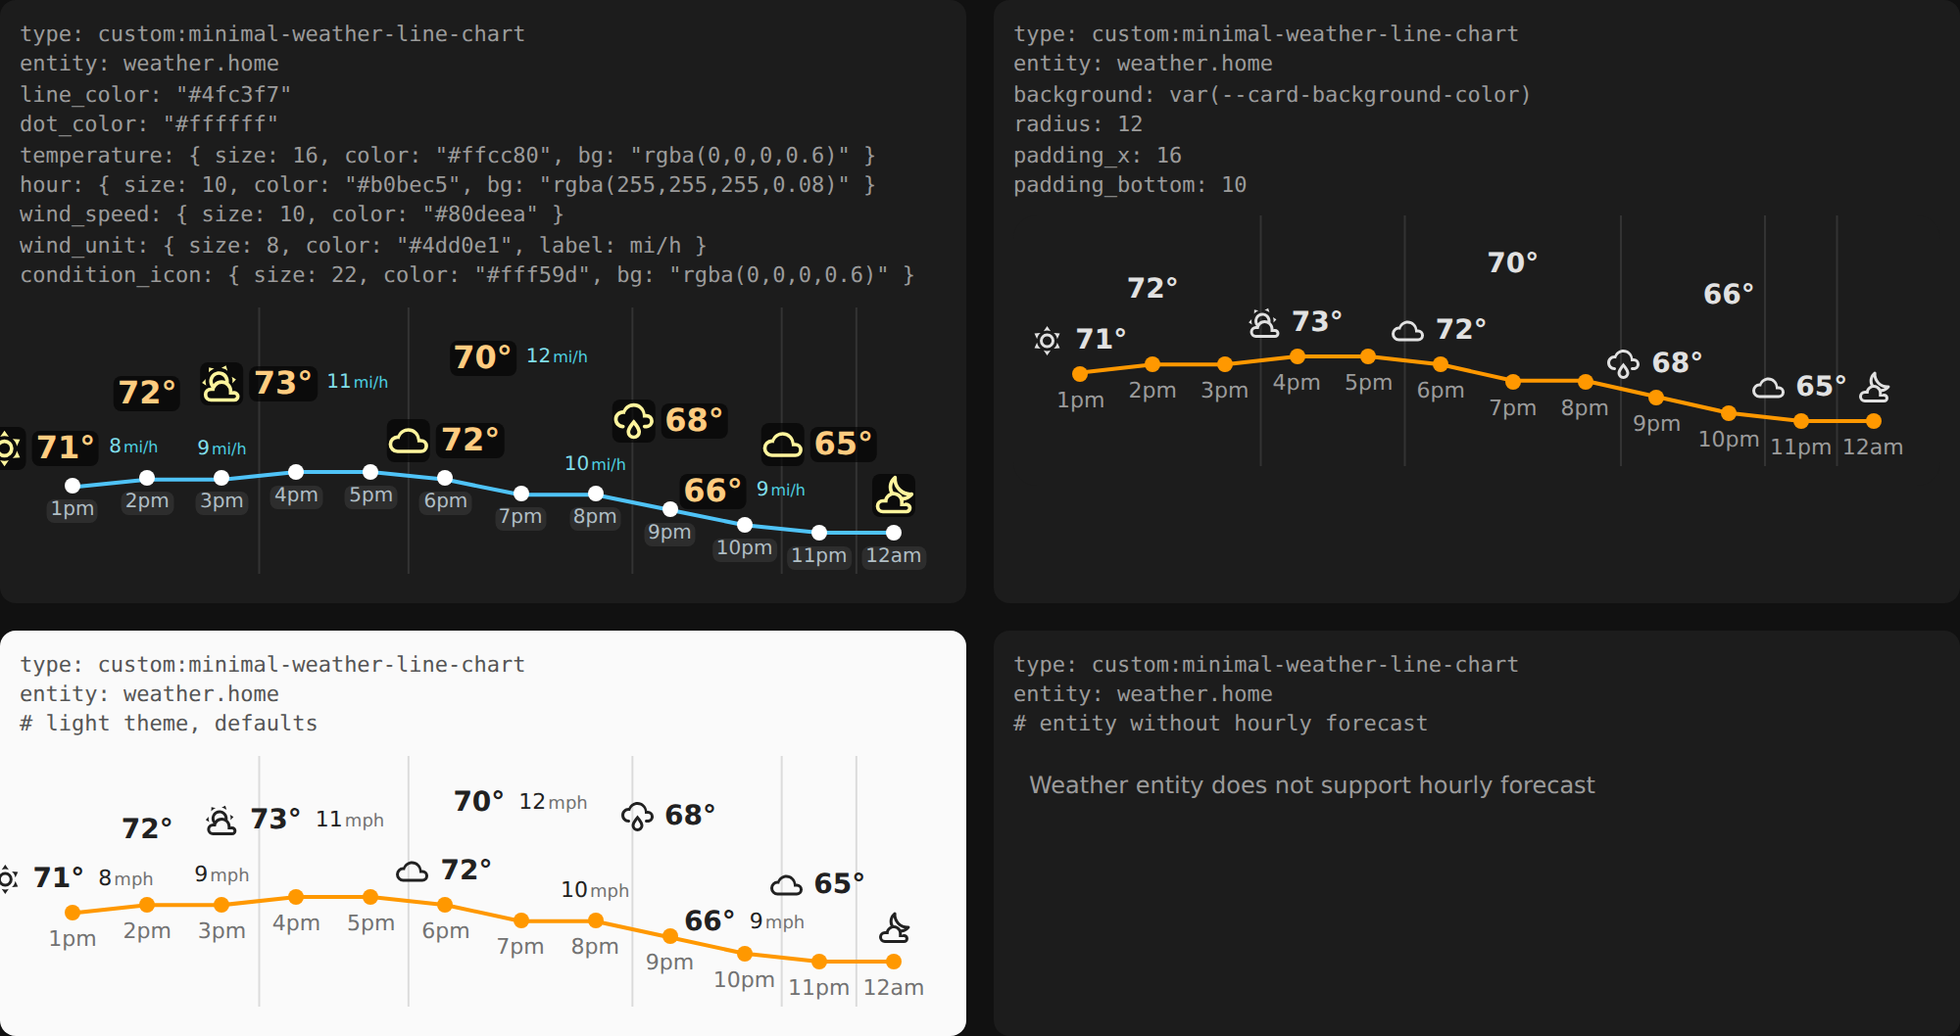
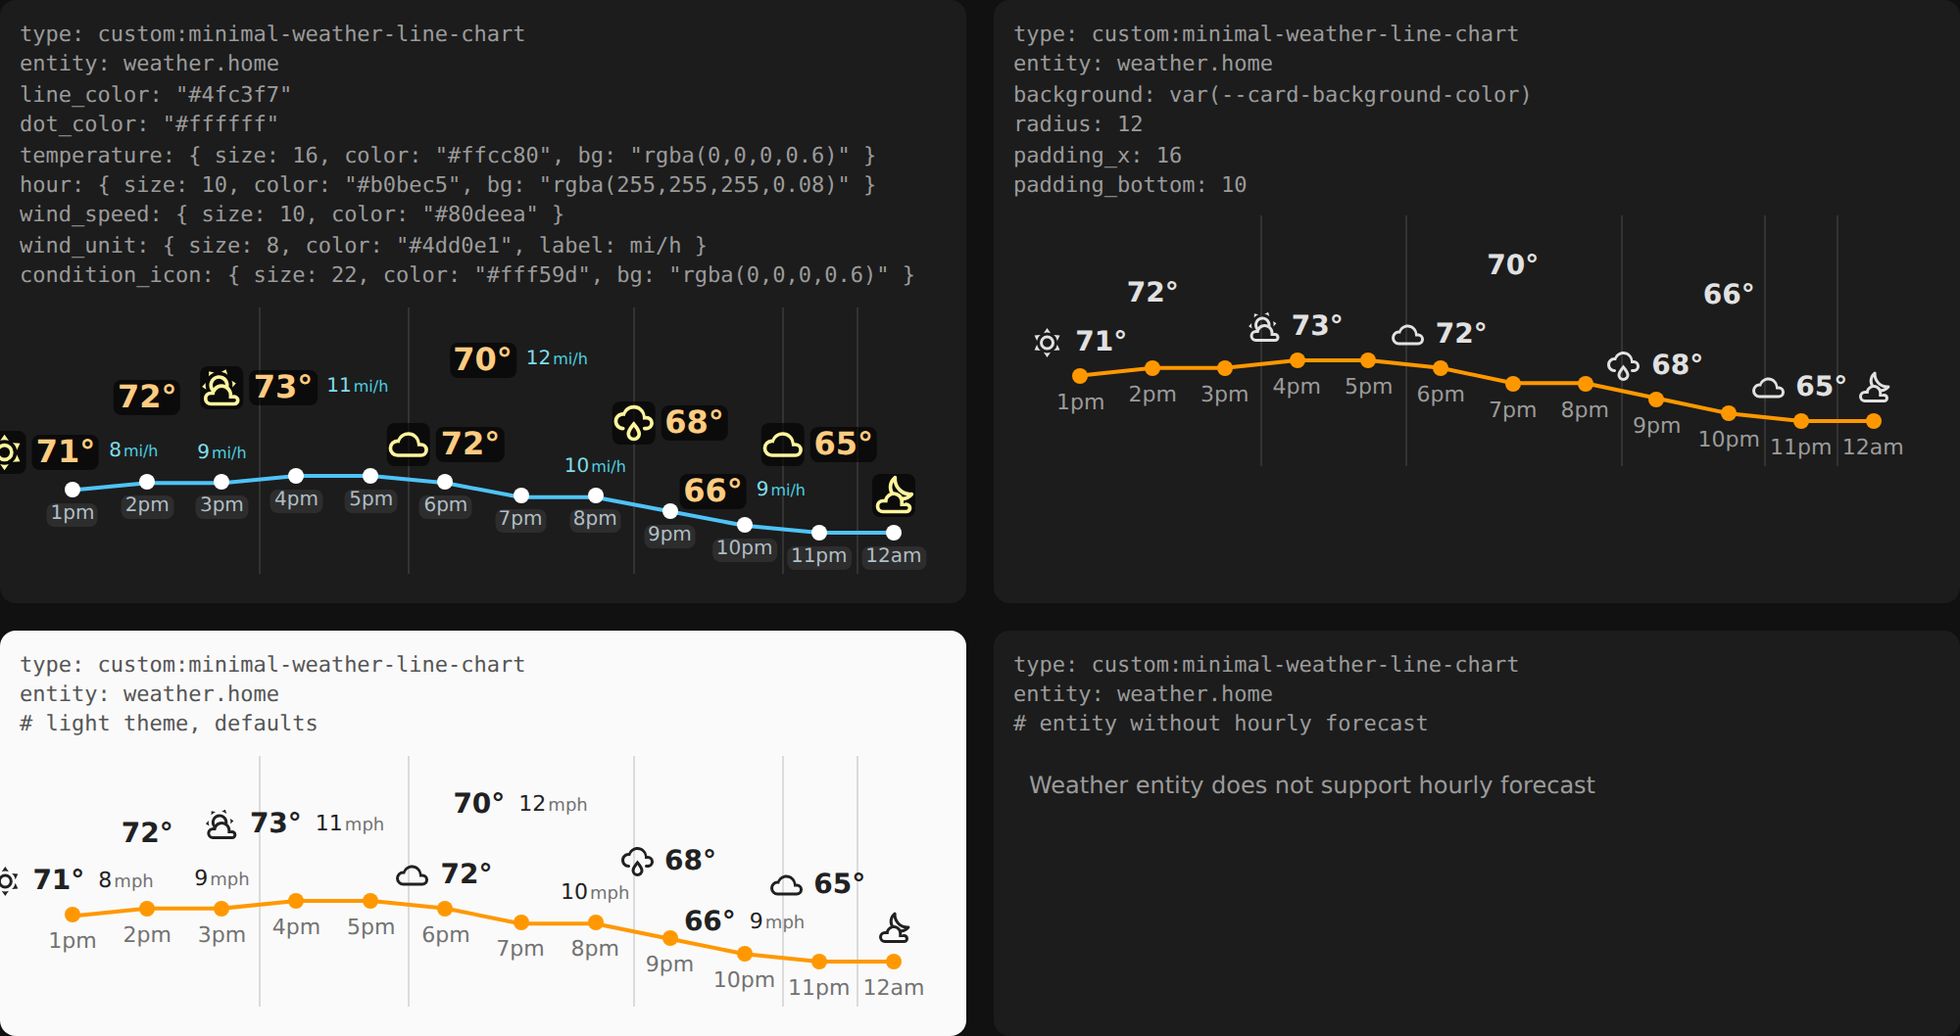
Fill the container height; version 1.1.0
The plot area is now percentage-based inside a card that is height:100%
of its container with chart_height as the minimum, so a sections-view
grid row (or any container with a set height) stretches the line
vertically instead of leaving empty space. Small extra breathing room
above the top label.

Claude-Session: https://claude.ai/code/session_01HPSeacRviaKPEzqQEGUGXL

diff --git a/dist/minimal-weather-line-chart.js b/dist/minimal-weather-line-chart.js
@@ -10,7 +10,7 @@
  */
 
 const CARD_TAG = "minimal-weather-line-chart";
-const CARD_VERSION = "1.0.0";
+const CARD_VERSION = "1.1.0";
 
 const CONDITION_ICONS = {
   "clear-night": "weather-night",
@@ -266,7 +266,6 @@ class MinimalWeatherLineChart extends HTMLElement {
     this._lastKey = key;
 
     const n = forecast.length;
-    const H = c.chart_height;
     const r = c.dot_size;
     const labelGap = 4; // between a label and the dot below it
     const hourGap = 3; // between a dot and the hour label below it
@@ -277,40 +276,39 @@ class MinimalWeatherLineChart extends HTMLElement {
     const maxRow = rows.reduce((m, rw) => Math.max(m, rw), 0);
     // Extra label rows (from staggering) grow the card rather than squeeze the line.
     const extraH = maxRow * rowH;
-    const padTop = (c.padding_top == null ? labelH + labelGap + Math.max(r, c.line_width) : c.padding_top) + extraH;
+    const padTop = (c.padding_top == null ? labelH + labelGap + Math.max(r, c.line_width) + 2 : c.padding_top) + extraH;
     // Room under the lowest point: its dot, then either its own hour label or the gap to the bottom row.
-    const padBottom = Math.max(r, c.line_width) + hourGap + (c.hours_next_to_line ? hourH : 0);
-    const innerH = Math.max(4, H + extraH - padTop - padBottom);
-    const totalH = H + extraH + (c.hours_next_to_line ? 0 : hourH);
+    const padBottom = Math.max(r, c.line_width) + hourGap + hourH;
+    // The plot area is everything between padTop and padBottom. Its height is not
+    // fixed: the card is chart_height tall at minimum and stretches to fill whatever
+    // height its container gives it (a sections-view grid row, a stack sibling), so
+    // vertical positions inside the plot are percentages.
+    const minH = c.chart_height + extraH + (c.hours_next_to_line ? 0 : hourH);
 
     const temps = forecast.map((f) => Math.round(f.temperature));
     const min = n ? Math.min.apply(null, temps) : 0;
     const max = n ? Math.max.apply(null, temps) : 0;
     const span = max - min;
     const colW = n ? 100 / n : 100;
-    const yOf = (t) => (span === 0 ? padTop + innerH / 2 : padTop + ((max - t) / span) * innerH);
+    const yOf = (t) => (span === 0 ? 50 : ((max - t) / span) * 100);
     const points = temps.map((t, i) => ({ x: colW * (i + 0.5), y: yOf(t) }));
 
     let svg = "";
+    let separators = "";
     let labels = "";
     let hours = "";
     let dots = "";
     if (n) {
-      let separators = "";
       if (c.show_separators) {
         for (let i = 1; i < n; i++) {
           if (forecast[i].condition !== forecast[i - 1].condition) {
-            const x = (colW * i).toFixed(3);
-            separators +=
-              '<line x1="' + x + '" y1="0" x2="' + x + '" y2="' + totalH + '" stroke="' + c.separator_color +
-              '" stroke-width="1" vector-effect="non-scaling-stroke"/>';
+            separators += '<div class="sep" style="left:' + (colW * i).toFixed(3) + '%;"></div>';
           }
         }
       }
-      const poly = points.map((p) => p.x.toFixed(3) + "," + p.y.toFixed(2)).join(" ");
+      const poly = points.map((p) => p.x.toFixed(3) + "," + p.y.toFixed(3)).join(" ");
       svg =
-        '<svg class="chart" viewBox="0 0 100 ' + totalH + '" preserveAspectRatio="none" aria-hidden="true">' +
-        separators +
+        '<svg class="chart" viewBox="0 0 100 100" preserveAspectRatio="none" aria-hidden="true">' +
         '<polyline points="' + poly + '" fill="none" stroke="' + c.line_color + '" stroke-width="' + c.line_width +
         '" vector-effect="non-scaling-stroke" stroke-linejoin="round" stroke-linecap="round"/>' +
         "</svg>";
@@ -323,26 +321,24 @@ class MinimalWeatherLineChart extends HTMLElement {
         const showCond = !c.hide_repeats || !prev || f.condition !== prev.condition;
         const showTemp = !c.hide_repeats || !prev || temps[i] !== temps[i - 1];
         const showWind = c.show_wind && wind != null && (!c.hide_repeats || !prev || wind !== prevWind);
+        const at = "left:" + points[i].x.toFixed(3) + "%;top:" + points[i].y.toFixed(3) + "%;";
 
         let inner = "";
         if (showCond) inner += '<ha-icon class="icon" icon="' + this._iconFor(f) + '"></ha-icon>';
-        if (showTemp) inner += '<span class="temp">' + temps[i] + "°</span>";
+        if (showTemp) inner += '<span class="temp">' + temps[i] + "\u00b0</span>";
         if (showWind) {
           inner += '<span class="wind">' + wind + '<span class="wind-unit">' + escapeHtml(unit) + "</span></span>";
         }
-        if (r > 0) {
-          dots += '<div class="dot" style="left:' + points[i].x.toFixed(3) + "%;top:" + points[i].y.toFixed(2) + 'px;"></div>';
-        }
+        if (r > 0) dots += '<div class="dot" style="' + at + '"></div>';
         if (inner) {
-          const y = points[i].y - (rows[i] || 0) * rowH - r;
+          const lift = labelGap + r + (rows[i] || 0) * rowH;
           labels +=
-            '<div class="label" data-i="' + i + '" style="left:' + points[i].x.toFixed(3) + "%;top:" + y.toFixed(2) + 'px;">' +
+            '<div class="label" data-i="' + i + '" style="' + at + "transform:translate(-50%,calc(-100% - " + lift + 'px));">' +
             inner +
             "</div>";
         }
-        const hourPos = c.hours_next_to_line ? "top:" + (points[i].y + r + hourGap).toFixed(2) + "px;" : "bottom:0;";
         hours +=
-          '<div class="hour" style="left:' + points[i].x.toFixed(3) + "%;" + hourPos + '">' +
+          '<div class="hour" style="' + (c.hours_next_to_line ? at : "left:" + points[i].x.toFixed(3) + "%;bottom:0;") + '">' +
           this._formatHour(f.datetime) +
           "</div>";
       }
@@ -350,29 +346,34 @@ class MinimalWeatherLineChart extends HTMLElement {
 
     const style =
       "<style>" +
+      ":host{display:block;height:100%;}" +
       "ha-card{background:" + c.background + ";border:none;box-shadow:none;border-radius:" + c.radius + "px;" +
-      "padding:0 " + c.padding_x + "px " + c.padding_bottom + "px;overflow:visible;}" +
-      ".wrap{position:relative;width:100%;height:" + totalH + "px;}" +
-      ".chart{position:absolute;left:0;top:0;width:100%;height:" + totalH + "px;overflow:visible;display:block;}" +
+      "padding:0 " + c.padding_x + "px " + c.padding_bottom + "px;box-sizing:border-box;height:100%;overflow:visible;}" +
+      ".wrap{position:relative;width:100%;height:100%;min-height:" + minH + "px;}" +
+      ".plot{position:absolute;left:0;right:0;top:" + padTop + "px;bottom:" + padBottom + "px;}" +
+      ".chart{position:absolute;left:0;top:0;width:100%;height:100%;overflow:visible;display:block;}" +
+      ".sep{position:absolute;top:0;bottom:0;width:1px;background:" + c.separator_color + ";}" +
       ".dot{position:absolute;width:" + 2 * r + "px;height:" + 2 * r + "px;border-radius:50%;background:" + c.dot_color + ";" +
       "transform:translate(-50%,-50%);}" +
-      ".label{position:absolute;transform:translate(-50%,calc(-100% - " + labelGap + "px));display:flex;align-items:center;gap:3px;" +
-      "white-space:nowrap;line-height:1;pointer-events:none;}" +
+      ".label{position:absolute;display:flex;align-items:center;gap:3px;white-space:nowrap;line-height:1;pointer-events:none;}" +
       ".icon{--mdc-icon-size:" + CI.size + "px;width:" + CI.size + "px;height:" + CI.size + "px;color:" + CI.color + ";" +
       "background:" + CI.bg + ";border-radius:4px;display:flex;align-items:center;justify-content:center;}" +
       ".temp{font-size:" + T.size + "px;color:" + T.color + ";background:" + T.bg + ";border-radius:4px;padding:1px 2px;font-weight:600;}" +
       ".wind{font-size:" + W.size + "px;color:" + W.color + ";background:" + W.bg + ";border-radius:4px;padding:1px 2px;" +
       "display:inline-flex;align-items:baseline;gap:1px;}" +
       ".wind-unit{font-size:" + WU.size + "px;color:" + WU.color + ";background:" + WU.bg + ";border-radius:3px;}" +
-      ".hours{position:absolute;left:0;right:0;top:0;bottom:0;pointer-events:none;}" +
-      ".hour{position:absolute;transform:translateX(-50%);line-height:1.2;white-space:nowrap;" +
-      "font-size:" + HR.size + "px;color:" + HR.color + ";background:" + HR.bg + ";border-radius:4px;padding:0 2px;}" +
+      ".hour{position:absolute;transform:translate(-50%," + (c.hours_next_to_line ? r + hourGap : 0) + "px);line-height:1.2;" +
+      "white-space:nowrap;font-size:" + HR.size + "px;color:" + HR.color + ";background:" + HR.bg + ";border-radius:4px;padding:0 2px;}" +
       ".message{font-size:12px;color:var(--secondary-text-color);padding:8px 0;}" +
       "</style>";
 
+    // Hours under their points live inside the plot (percent positions); the bottom
+    // row lives in the wrap, below the plot.
+    const hoursIn = c.hours_next_to_line ? hours : "";
+    const hoursBelow = c.hours_next_to_line ? "" : hours;
     const body = message
       ? '<div class="message">' + escapeHtml(message) + "</div>"
-      : '<div class="wrap">' + svg + '<div class="dots">' + dots + '</div><div class="labels">' + labels + '</div><div class="hours">' + hours + "</div></div>";
+      : '<div class="wrap">' + separators + '<div class="plot">' + svg + dots + labels + hoursIn + "</div>" + hoursBelow + "</div>";
 
     this.shadowRoot.innerHTML = style + "<ha-card>" + body + "</ha-card>";
 

diff --git a/src/minimal-weather-line-chart.js b/src/minimal-weather-line-chart.js
@@ -10,7 +10,7 @@
  */
 
 const CARD_TAG = "minimal-weather-line-chart";
-const CARD_VERSION = "1.0.0";
+const CARD_VERSION = "1.1.0";
 
 const CONDITION_ICONS = {
   "clear-night": "weather-night",
@@ -266,7 +266,6 @@ class MinimalWeatherLineChart extends HTMLElement {
     this._lastKey = key;
 
     const n = forecast.length;
-    const H = c.chart_height;
     const r = c.dot_size;
     const labelGap = 4; // between a label and the dot below it
     const hourGap = 3; // between a dot and the hour label below it
@@ -277,40 +276,39 @@ class MinimalWeatherLineChart extends HTMLElement {
     const maxRow = rows.reduce((m, rw) => Math.max(m, rw), 0);
     // Extra label rows (from staggering) grow the card rather than squeeze the line.
     const extraH = maxRow * rowH;
-    const padTop = (c.padding_top == null ? labelH + labelGap + Math.max(r, c.line_width) : c.padding_top) + extraH;
+    const padTop = (c.padding_top == null ? labelH + labelGap + Math.max(r, c.line_width) + 2 : c.padding_top) + extraH;
     // Room under the lowest point: its dot, then either its own hour label or the gap to the bottom row.
-    const padBottom = Math.max(r, c.line_width) + hourGap + (c.hours_next_to_line ? hourH : 0);
-    const innerH = Math.max(4, H + extraH - padTop - padBottom);
-    const totalH = H + extraH + (c.hours_next_to_line ? 0 : hourH);
+    const padBottom = Math.max(r, c.line_width) + hourGap + hourH;
+    // The plot area is everything between padTop and padBottom. Its height is not
+    // fixed: the card is chart_height tall at minimum and stretches to fill whatever
+    // height its container gives it (a sections-view grid row, a stack sibling), so
+    // vertical positions inside the plot are percentages.
+    const minH = c.chart_height + extraH + (c.hours_next_to_line ? 0 : hourH);
 
     const temps = forecast.map((f) => Math.round(f.temperature));
     const min = n ? Math.min.apply(null, temps) : 0;
     const max = n ? Math.max.apply(null, temps) : 0;
     const span = max - min;
     const colW = n ? 100 / n : 100;
-    const yOf = (t) => (span === 0 ? padTop + innerH / 2 : padTop + ((max - t) / span) * innerH);
+    const yOf = (t) => (span === 0 ? 50 : ((max - t) / span) * 100);
     const points = temps.map((t, i) => ({ x: colW * (i + 0.5), y: yOf(t) }));
 
     let svg = "";
+    let separators = "";
     let labels = "";
     let hours = "";
     let dots = "";
     if (n) {
-      let separators = "";
       if (c.show_separators) {
         for (let i = 1; i < n; i++) {
           if (forecast[i].condition !== forecast[i - 1].condition) {
-            const x = (colW * i).toFixed(3);
-            separators +=
-              '<line x1="' + x + '" y1="0" x2="' + x + '" y2="' + totalH + '" stroke="' + c.separator_color +
-              '" stroke-width="1" vector-effect="non-scaling-stroke"/>';
+            separators += '<div class="sep" style="left:' + (colW * i).toFixed(3) + '%;"></div>';
           }
         }
       }
-      const poly = points.map((p) => p.x.toFixed(3) + "," + p.y.toFixed(2)).join(" ");
+      const poly = points.map((p) => p.x.toFixed(3) + "," + p.y.toFixed(3)).join(" ");
       svg =
-        '<svg class="chart" viewBox="0 0 100 ' + totalH + '" preserveAspectRatio="none" aria-hidden="true">' +
-        separators +
+        '<svg class="chart" viewBox="0 0 100 100" preserveAspectRatio="none" aria-hidden="true">' +
         '<polyline points="' + poly + '" fill="none" stroke="' + c.line_color + '" stroke-width="' + c.line_width +
         '" vector-effect="non-scaling-stroke" stroke-linejoin="round" stroke-linecap="round"/>' +
         "</svg>";
@@ -323,26 +321,24 @@ class MinimalWeatherLineChart extends HTMLElement {
         const showCond = !c.hide_repeats || !prev || f.condition !== prev.condition;
         const showTemp = !c.hide_repeats || !prev || temps[i] !== temps[i - 1];
         const showWind = c.show_wind && wind != null && (!c.hide_repeats || !prev || wind !== prevWind);
+        const at = "left:" + points[i].x.toFixed(3) + "%;top:" + points[i].y.toFixed(3) + "%;";
 
         let inner = "";
         if (showCond) inner += '<ha-icon class="icon" icon="' + this._iconFor(f) + '"></ha-icon>';
-        if (showTemp) inner += '<span class="temp">' + temps[i] + "°</span>";
+        if (showTemp) inner += '<span class="temp">' + temps[i] + "\u00b0</span>";
         if (showWind) {
           inner += '<span class="wind">' + wind + '<span class="wind-unit">' + escapeHtml(unit) + "</span></span>";
         }
-        if (r > 0) {
-          dots += '<div class="dot" style="left:' + points[i].x.toFixed(3) + "%;top:" + points[i].y.toFixed(2) + 'px;"></div>';
-        }
+        if (r > 0) dots += '<div class="dot" style="' + at + '"></div>';
         if (inner) {
-          const y = points[i].y - (rows[i] || 0) * rowH - r;
+          const lift = labelGap + r + (rows[i] || 0) * rowH;
           labels +=
-            '<div class="label" data-i="' + i + '" style="left:' + points[i].x.toFixed(3) + "%;top:" + y.toFixed(2) + 'px;">' +
+            '<div class="label" data-i="' + i + '" style="' + at + "transform:translate(-50%,calc(-100% - " + lift + 'px));">' +
             inner +
             "</div>";
         }
-        const hourPos = c.hours_next_to_line ? "top:" + (points[i].y + r + hourGap).toFixed(2) + "px;" : "bottom:0;";
         hours +=
-          '<div class="hour" style="left:' + points[i].x.toFixed(3) + "%;" + hourPos + '">' +
+          '<div class="hour" style="' + (c.hours_next_to_line ? at : "left:" + points[i].x.toFixed(3) + "%;bottom:0;") + '">' +
           this._formatHour(f.datetime) +
           "</div>";
       }
@@ -350,29 +346,34 @@ class MinimalWeatherLineChart extends HTMLElement {
 
     const style =
       "<style>" +
+      ":host{display:block;height:100%;}" +
       "ha-card{background:" + c.background + ";border:none;box-shadow:none;border-radius:" + c.radius + "px;" +
-      "padding:0 " + c.padding_x + "px " + c.padding_bottom + "px;overflow:visible;}" +
-      ".wrap{position:relative;width:100%;height:" + totalH + "px;}" +
-      ".chart{position:absolute;left:0;top:0;width:100%;height:" + totalH + "px;overflow:visible;display:block;}" +
+      "padding:0 " + c.padding_x + "px " + c.padding_bottom + "px;box-sizing:border-box;height:100%;overflow:visible;}" +
+      ".wrap{position:relative;width:100%;height:100%;min-height:" + minH + "px;}" +
+      ".plot{position:absolute;left:0;right:0;top:" + padTop + "px;bottom:" + padBottom + "px;}" +
+      ".chart{position:absolute;left:0;top:0;width:100%;height:100%;overflow:visible;display:block;}" +
+      ".sep{position:absolute;top:0;bottom:0;width:1px;background:" + c.separator_color + ";}" +
       ".dot{position:absolute;width:" + 2 * r + "px;height:" + 2 * r + "px;border-radius:50%;background:" + c.dot_color + ";" +
       "transform:translate(-50%,-50%);}" +
-      ".label{position:absolute;transform:translate(-50%,calc(-100% - " + labelGap + "px));display:flex;align-items:center;gap:3px;" +
-      "white-space:nowrap;line-height:1;pointer-events:none;}" +
+      ".label{position:absolute;display:flex;align-items:center;gap:3px;white-space:nowrap;line-height:1;pointer-events:none;}" +
       ".icon{--mdc-icon-size:" + CI.size + "px;width:" + CI.size + "px;height:" + CI.size + "px;color:" + CI.color + ";" +
       "background:" + CI.bg + ";border-radius:4px;display:flex;align-items:center;justify-content:center;}" +
       ".temp{font-size:" + T.size + "px;color:" + T.color + ";background:" + T.bg + ";border-radius:4px;padding:1px 2px;font-weight:600;}" +
       ".wind{font-size:" + W.size + "px;color:" + W.color + ";background:" + W.bg + ";border-radius:4px;padding:1px 2px;" +
       "display:inline-flex;align-items:baseline;gap:1px;}" +
       ".wind-unit{font-size:" + WU.size + "px;color:" + WU.color + ";background:" + WU.bg + ";border-radius:3px;}" +
-      ".hours{position:absolute;left:0;right:0;top:0;bottom:0;pointer-events:none;}" +
-      ".hour{position:absolute;transform:translateX(-50%);line-height:1.2;white-space:nowrap;" +
-      "font-size:" + HR.size + "px;color:" + HR.color + ";background:" + HR.bg + ";border-radius:4px;padding:0 2px;}" +
+      ".hour{position:absolute;transform:translate(-50%," + (c.hours_next_to_line ? r + hourGap : 0) + "px);line-height:1.2;" +
+      "white-space:nowrap;font-size:" + HR.size + "px;color:" + HR.color + ";background:" + HR.bg + ";border-radius:4px;padding:0 2px;}" +
       ".message{font-size:12px;color:var(--secondary-text-color);padding:8px 0;}" +
       "</style>";
 
+    // Hours under their points live inside the plot (percent positions); the bottom
+    // row lives in the wrap, below the plot.
+    const hoursIn = c.hours_next_to_line ? hours : "";
+    const hoursBelow = c.hours_next_to_line ? "" : hours;
     const body = message
       ? '<div class="message">' + escapeHtml(message) + "</div>"
-      : '<div class="wrap">' + svg + '<div class="dots">' + dots + '</div><div class="labels">' + labels + '</div><div class="hours">' + hours + "</div></div>";
+      : '<div class="wrap">' + separators + '<div class="plot">' + svg + dots + labels + hoursIn + "</div>" + hoursBelow + "</div>";
 
     this.shadowRoot.innerHTML = style + "<ha-card>" + body + "</ha-card>";
 

diff --git a/README.md b/README.md
@@ -70,7 +70,7 @@ standard dark and light themes.
 
 | Name | Default | Description |
 | --- | --- | --- |
-| `chart_height` | `84` | Height in px of the line area, including the room for labels above and hours below. With `hours_next_to_line: false` the hour row is added below this. |
+| `chart_height` | `84` | Minimum height in px of the line area, including the room for labels above and hours below. With `hours_next_to_line: false` the hour row is added below this. |
 | `padding_top` | auto | Space in px above the highest point. Auto is just enough for the labels. |
 | `padding_bottom` | `5` | Card padding in px below the lowest content. |
 | `padding_x` | `8` | Card padding in px on the left and right. |
@@ -78,7 +78,12 @@ standard dark and light themes.
 | `dot_size` | `line_width + 2` | Radius in px of the dot at each data point. `0` removes the dots. Dots mark the hours whose values are hidden by `hide_repeats`. |
 | `stagger_labels` | `true` | When a label would overlap its left neighbour, lift it one row and grow the card to fit. `false` lets labels collide. |
 
-![Layout: dot_size, dot_color, chart_height, padding_bottom, stagger_labels](docs/screenshots/layout.png)
+The card fills whatever height its container gives it. In a sections view, set the
+card's `rows` in the layout options (or `grid_options: rows: 4`) and the line stretches to
+use the full height. In a masonry view, where nothing sets a height, the card is exactly
+`chart_height` tall.
+
+![Layout: dot_size, dot_color, chart_height, padding_bottom, stagger_labels, filling a tall container](docs/screenshots/layout.png)
 
 ### Colors and text
 
@@ -155,7 +160,7 @@ condition_icon:
 | Dots on every data point | The line still has a point for every hour even when its label is hidden. The dots make those hours visible. |
 | Hours are `4pm`, never `4:00 PM` | Twelve columns are narrow. The short form fits and reads faster. |
 | Hour label under each point | Reading a value and then hunting for its hour along the bottom edge is slow. Keeping them together is faster. The bottom row is still available. |
-| Much less vertical space, all of it configurable | The original chart is 180px tall with generous padding. This one is 84px by default, with controls for height, top padding, bottom padding and side padding. |
+| Much less vertical space, all of it configurable | The original chart is 180px tall with generous padding. This one is 84px by default, with controls for height, top padding, bottom padding and side padding, and it stretches to fill a taller container when the layout gives it one. |
 | Condition icon and wind next to the temperature | The original stacked icons and wind in separate rows above and below the chart. Everything for one hour is now one group. |
 | Wind is optional and off by default | Most of the time only the temperature line matters. |
 | Per-element size, color and background | So the card can match any dashboard theme. |
